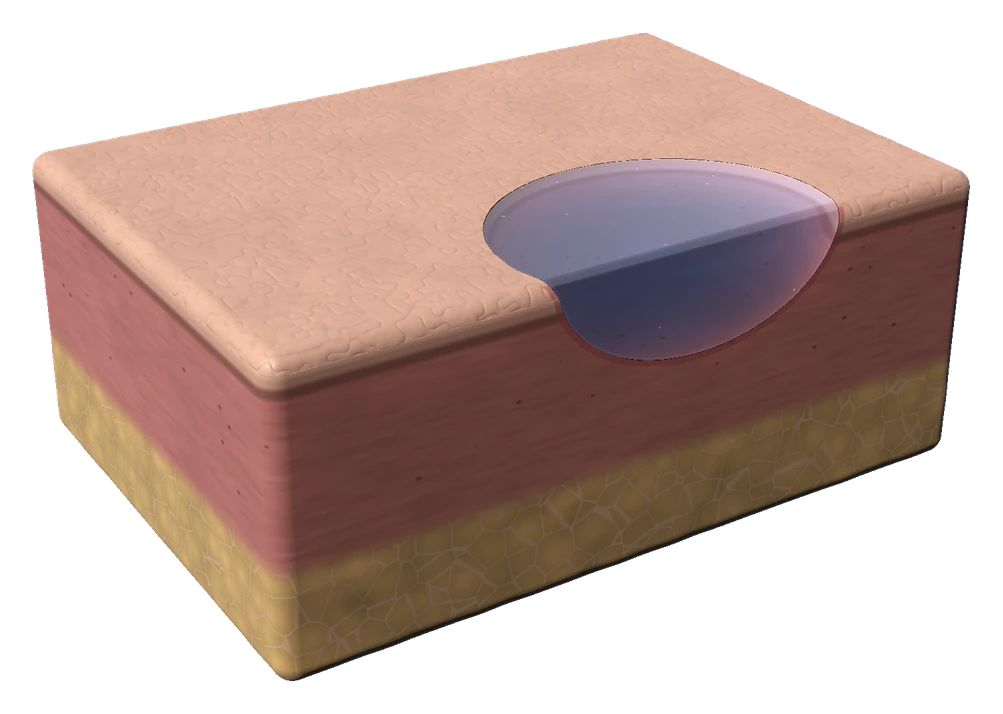
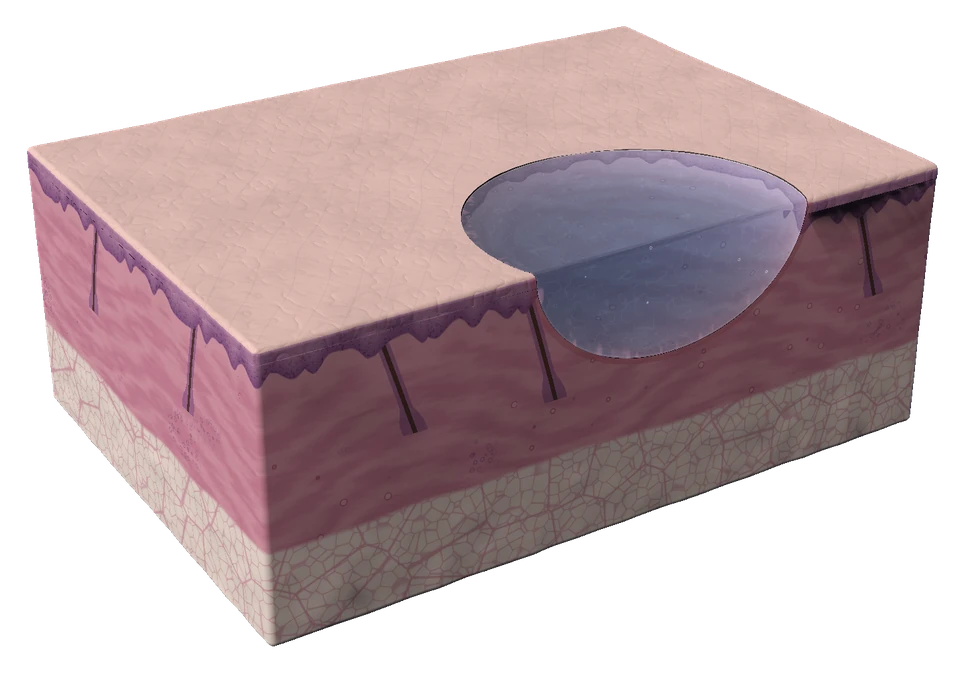
biomimir: histology-true hero render (coordinator review: no toy renders)
Claude-Session: https://claude.ai/code/session_014388NGBf241cfVKMjs2ozB

diff --git a/_kit/src/biomimir.src.html b/_kit/src/biomimir.src.html
@@ -1052,7 +1052,7 @@ var MOBILE=function(){return innerWidth<861};
 function unmask(s){if(!s)return;(s.masks||[]).forEach(function(m){m.style.overflow="visible";m.style.clipPath="none"})}
 
 
-/*<R:field>*//* ================= HERO FIELD: a crafted render of BioMimir's product in use (HOME_BRIEF update 2c): a block of human skin
+/*<R:field>*//* ================= HERO FIELD: a crafted render of BioMimir's product in use (HOME_BRIEF update 2c): a histology-true block of human skin
    in cross-section (epidermis, dermis, lobulated fat) whose deep cavity wound is filled flush with a clear, faintly blue
    gel, MatriFlex, their liquid-to-solid bioresorbable skin substitute (biomimir.ca). Ray-marched offline by render.py,
    lit warm with a periwinkle rim from the site's #5b7cc4, baked with alpha to hero.webp; here it breathes in a slow
@@ -1067,8 +1067,8 @@ var field=(function(){
   function geo(){
     var side=Math.max(Math.min(72,Math.max(16,w*.042)),(w-1320)/2),cw=w-2*side,mob=w<861;
     var U=mob?h*.42:h;
-    /* the skin block fills the render (1003x714, AR 1.405); it sits whole in the open area right of the text, below the header */
-    var AR=1003/714,iw=mob?Math.min(w*.86,(U-100)*AR):Math.min(cw*.45,(h-230)*AR),ih=iw/AR;
+    /* the skin block fills the render (964x673, AR 1.43); it sits whole in the open area right of the text, below the header */
+    var AR=964/673,iw=mob?Math.min(w*.86,(U-100)*AR):Math.min(cw*.45,(h-230)*AR),ih=iw/AR;
     var kx=mob?w*.5:side+cw*.73,ky=mob?98+(U-100)*.5:96+(h-96)*.52;
     return {mob:mob,side:side,cw:cw,U:U,ih:ih,iw:iw,kx:kx,ky:ky,bh:mob?U:h};
   }

diff --git a/biomimir/index.html b/biomimir/index.html
@@ -1618,7 +1618,7 @@ var MOBILE=function(){return innerWidth<861};
 function unmask(s){if(!s)return;(s.masks||[]).forEach(function(m){m.style.overflow="visible";m.style.clipPath="none"})}
 
 
-/*<R:field>*//* ================= HERO FIELD: a crafted render of BioMimir's product in use (HOME_BRIEF update 2c): a block of human skin
+/*<R:field>*//* ================= HERO FIELD: a crafted render of BioMimir's product in use (HOME_BRIEF update 2c): a histology-true block of human skin
    in cross-section (epidermis, dermis, lobulated fat) whose deep cavity wound is filled flush with a clear, faintly blue
    gel, MatriFlex, their liquid-to-solid bioresorbable skin substitute (biomimir.ca). Ray-marched offline by render.py,
    lit warm with a periwinkle rim from the site's #5b7cc4, baked with alpha to hero.webp; here it breathes in a slow
@@ -1633,8 +1633,8 @@ var field=(function(){
   function geo(){
     var side=Math.max(Math.min(72,Math.max(16,w*.042)),(w-1320)/2),cw=w-2*side,mob=w<861;
     var U=mob?h*.42:h;
-    /* the skin block fills the render (1003x714, AR 1.405); it sits whole in the open area right of the text, below the header */
-    var AR=1003/714,iw=mob?Math.min(w*.86,(U-100)*AR):Math.min(cw*.45,(h-230)*AR),ih=iw/AR;
+    /* the skin block fills the render (964x673, AR 1.43); it sits whole in the open area right of the text, below the header */
+    var AR=964/673,iw=mob?Math.min(w*.86,(U-100)*AR):Math.min(cw*.45,(h-230)*AR),ih=iw/AR;
     var kx=mob?w*.5:side+cw*.73,ky=mob?98+(U-100)*.5:96+(h-96)*.52;
     return {mob:mob,side:side,cw:cw,U:U,ih:ih,iw:iw,kx:kx,ky:ky,bh:mob?U:h};
   }

diff --git a/_kit/home/biomimir/field.js b/_kit/home/biomimir/field.js
@@ -1,4 +1,4 @@
-/* ================= HERO FIELD: a crafted render of BioMimir's product in use (HOME_BRIEF update 2c): a block of human skin
+/* ================= HERO FIELD: a crafted render of BioMimir's product in use (HOME_BRIEF update 2c): a histology-true block of human skin
    in cross-section (epidermis, dermis, lobulated fat) whose deep cavity wound is filled flush with a clear, faintly blue
    gel, MatriFlex, their liquid-to-solid bioresorbable skin substitute (biomimir.ca). Ray-marched offline by render.py,
    lit warm with a periwinkle rim from the site's #5b7cc4, baked with alpha to hero.webp; here it breathes in a slow
@@ -13,8 +13,8 @@ var field=(function(){
   function geo(){
     var side=Math.max(Math.min(72,Math.max(16,w*.042)),(w-1320)/2),cw=w-2*side,mob=w<861;
     var U=mob?h*.42:h;
-    /* the skin block fills the render (1003x714, AR 1.405); it sits whole in the open area right of the text, below the header */
-    var AR=1003/714,iw=mob?Math.min(w*.86,(U-100)*AR):Math.min(cw*.45,(h-230)*AR),ih=iw/AR;
+    /* the skin block fills the render (964x673, AR 1.43); it sits whole in the open area right of the text, below the header */
+    var AR=964/673,iw=mob?Math.min(w*.86,(U-100)*AR):Math.min(cw*.45,(h-230)*AR),ih=iw/AR;
     var kx=mob?w*.5:side+cw*.73,ky=mob?98+(U-100)*.5:96+(h-96)*.52;
     return {mob:mob,side:side,cw:cw,U:U,ih:ih,iw:iw,kx:kx,ky:ky,bh:mob?U:h};
   }

diff --git a/_kit/home/biomimir/render.py b/_kit/home/biomimir/render.py
@@ -20,9 +20,9 @@ def nrm(v): return v / (np.linalg.norm(v, axis=-1, keepdims=True) + 1e-12)
 def sm(a, b, x):
     t = np.clip((x - a) / (b - a), 0, 1); return t * t * (3 - 2 * t)
 
-BX, BY, BZ, BR = 1.32, 0.50, 0.92, 0.07       # skin block half sizes + rounding
+BX, BY, BZ, BR = 1.32, 0.50, 0.92, 0.022      # tissue block half sizes + a slight edge softening (a cut block, not a cake)
 TOP = BY + BR                                 # top skin surface
-EC = np.array([0.18, TOP, -BZ - BR + 0.22]); ER = np.array([0.62, 0.42, 0.56])   # the wound cavity (ellipsoid), cut open by the front face
+EC = np.array([0.18, TOP, -BZ - BR + 0.22]); ER = np.array([0.60, 0.46, 0.56])   # the wound cavity (ellipsoid), cut open by the front face
 
 YAW = np.radians(-32)
 cy_, sy_ = np.cos(YAW), np.sin(YAW)
@@ -59,9 +59,9 @@ def cell(p):
 def skin_tex(q):
     # fine skin relief: irregular furrows (ridged noise) + soft micro relief
     n = vnoise(q * np.array([24, 24, 24.0]))
-    return -0.0022 * (1 - np.abs(2 * n - 1)) ** 4 + 0.0006 * vnoise(q * 70.0)
+    return -0.0014 * (1 - np.abs(2 * n - 1)) ** 4 + 0.0004 * vnoise(q * 70.0)
 def fat_bump(q):
-    return 0.004 * vnoise(q * 9.0)
+    b1 = vnoise(q * 11.0); return 0.005 * b1 * b1
 
 def ell(q):
     k = (q - EC) / ER; k0 = np.linalg.norm(k, axis=1); k1 = np.linalg.norm(k / ER, axis=1)
@@ -72,14 +72,15 @@ def sdf(p, want=False):
     d = np.abs(q) - np.array([BX, BY, BZ])
     box = np.linalg.norm(np.maximum(d, 0), axis=1) + np.minimum(d.max(1), 0) - BR
     top = q[:, 1] > TOP - 0.05
-    box = box - np.where(top, skin_tex(q), 0)
-    fat = q[:, 1] < -0.16
-    box = box + np.where(fat, -fat_bump(q) * sm(-0.16, -0.24, q[:, 1]), 0)
+    box = box - np.where(top, skin_tex(q) + 0.010 * (vnoise(q * np.array([2.2, 2.2, 2.2])) - .5), 0)
+    box = box - 0.004 * (vnoise(q * 7.0) - .5)                              # a hand-cut face is never flat
+    fat = q[:, 1] < -0.17
+    box = box - np.where(fat, fat_bump(q) * sm(-0.17, -0.30, q[:, 1]), 0)
     cav = ell(q)
     skin = np.maximum(box, -cav)
     boxp = np.linalg.norm(np.maximum(d, 0), axis=1) + np.minimum(d.max(1), 0) - BR
     r2 = ((q[:, 0] - EC[0]) / ER[0]) ** 2 + ((q[:, 2] - EC[2]) / ER[2]) ** 2
-    dome = TOP + 0.012 + 0.026 * np.clip(1 - r2, 0, 1)
+    dome = TOP + 0.002 + 0.004 * np.clip(1 - r2, 0, 1)
     gel = np.maximum(np.maximum(cav + 0.002, (q[:, 1] - dome) * 0.9), boxp + 0.002)
     out = np.minimum(skin, gel)
     if want: return out, dict(q=q, gel=gel < skin)
@@ -111,30 +112,87 @@ def normal(P):
     return nrm(np.stack([sdf(P + [e, 0, 0]) - sdf(P - [e, 0, 0]), sdf(P + [0, e, 0]) - sdf(P - [0, e, 0]),
                          sdf(P + [0, 0, e]) - sdf(P - [0, 0, e])], 1))
 
+FOL = [  # hair follicles: (x at top, z, tilt in x per unit depth, depth), lying in the cut faces so they show in section
+    (-0.95, -BZ - 0.004, 0.32, 0.40), (-0.42, -BZ - 0.004, 0.28, 0.44), (0.95, -BZ - 0.004, 0.30, 0.42),
+    (-BX - 0.004, -0.55, 0.0, 0.42), (-BX - 0.004, 0.25, 0.0, 0.40)]
 def tissue_albedo(q, n_local):
-    y = q[:, 1]
-    epi = np.array([0.86, 0.68, 0.60]); bas = np.array([0.55, 0.36, 0.33])
-    der = np.array([0.80, 0.50, 0.49]); fat = np.array([0.94, 0.80, 0.50]); bed = np.array([0.66, 0.30, 0.31])
-    # dermis with fine collagen streaks
-    streak = fbm(q * np.array([9.0, 60.0, 9.0]), 3)
-    a = der[None, :] * (0.86 + 0.22 * streak)[:, None]
-    g1, g2 = cell(q * np.array([7.0, 11.0, 7.0]) + 3.1)
-    ves = (1 - sm(0.06, 0.10, g1)) * sm(-0.05, 0.05, y) * (1 - sm(0.38, 0.44, y))
-    a = a * (1 - ves * 0.55)[:, None] + np.array([0.50, 0.12, 0.14]) * (ves * 0.55)[:, None]
-    a = a * (1 - sm(0.43, 0.455, y))[:, None] + bas * (sm(0.43, 0.455, y) * (1 - sm(0.465, 0.49, y)))[:, None] \
-        + epi * sm(0.465, 0.49, y)[:, None]
-    f = sm(-0.10, -0.20, y)
-    f1, f2 = cell(q * 9.0)
-    sep = 1 - (1 - sm(0.01, 0.07, f2 - f1)) * 0.6                   # thin fibrous septa between lobules
-    cv = hsh(np.floor(q * 9.0))
-    fa = fat[None, :] * (0.80 + 0.22 * np.clip(1 - f1, 0, 1) ** 1.5 + 0.06 * (vnoise(q * 9.0) - .5))[:, None]
-    fa = fa * sep[:, None] + np.array([0.95, 0.80, 0.74]) * (1 - sep)[:, None]
+    """H&E-like histology colours on the cut faces: pale lamellated stratum corneum, a stratified purple epidermis with
+    rete ridges dipping into the dermis, eosin-pink fibrous dermis (finer papillary, coarser reticular bundles) with small
+    vessels, hair follicles and coiled sweat glands, then lobulated pale fat with thin pink septa."""
+    x, y, z = q[:, 0], q[:, 1], q[:, 2]
+    n = len(q)
+    # --- the dermal-epidermal junction with rete ridges (pegs pointing down)
+    r1 = (0.5 + 0.5 * np.sin(34 * x + 2.2 * np.sin(11 * z) + 1.3)) ** 3
+    r2 = (0.5 + 0.5 * np.sin(32 * z + 2.0 * np.sin(13 * x))) ** 3
+    rr = np.maximum(r1, r2)
+    dej = TOP - 0.070 - 0.050 * rr - 0.008 * vnoise(q * 40.0)
+    scb = TOP - 0.010 - 0.002 * vnoise(q * 50.0)
+    # dermis
+    pap = sm(dej - 0.09, dej - 0.02, y)                                     # papillary zone just under the junction
+    bund = fbm(q * np.array([6.0, 26.0, 6.0]), 3)
+    wav = 0.5 + 0.5 * np.sin(48 * y + 9 * bund + 5 * np.sin(5 * x + 4 * z))
+    fib = 0.55 * wav + 0.45 * fbm(q * np.array([28.0, 90.0, 28.0]), 2)
+    dermL = np.array([0.90, 0.66, 0.74]); dermD = np.array([0.76, 0.42, 0.56])
+    a = dermD[None, :] + (dermL - dermD)[None, :] * (0.25 + 0.75 * fib * (1 - pap) + 0.55 * pap)[:, None]
+    a = np.clip(a, 0, 1)
+    # vessels: small rings with a dark lumen edge, scattered in the dermis
+    v1, _ = cell(q * 13.0 + 7.7)
+    vm = (hsh(np.floor(q * 13.0 + 7.7)) > 0.72)
+    vr = vm * np.clip(1 - np.abs(v1 - 0.16) / 0.035, 0, 1)
+    vl = vm * (v1 < 0.13)
+    a = a * (1 - 0.6 * vr)[:, None] + np.array([0.62, 0.20, 0.34]) * (0.6 * vr)[:, None]
+    a = a * (1 - 0.35 * vl)[:, None] + np.array([0.96, 0.86, 0.88]) * (0.35 * vl)[:, None]
+    # sweat glands: coiled clusters of tiny purple rings low in the dermis
+    gm = sm(0.60, 0.74, vnoise(q * 4.0 + 2.3)) * sm(-0.16, -0.08, y) * (1 - sm(0.08, 0.16, y))
+    g1, _ = cell(q * 34.0)
+    gr = gm * np.clip(1 - np.abs(g1 - 0.30) / 0.09, 0, 1)
+    a = a * (1 - 0.7 * gr)[:, None] + np.array([0.50, 0.30, 0.56]) * (0.7 * gr)[:, None]
+    # hair follicles in section: purple root sheath, a dark shaft, a bulb at the base
+    for (fx, fz, tl, dp) in FOL:
+        t = np.clip((TOP - y) / dp, 0, 1)
+        if abs(fz) > BZ:   # follicle in the front face: runs in x
+            cx = fx + tl * (TOP - y); dd = np.abs(x - cx); near = np.abs(z - fz) < 0.03
+        else:              # follicle in the left face: runs in z
+            cz = fz + 0.30 * (TOP - y); dd = np.abs(z - cz); near = np.abs(x - fx) < 0.03
+        w = 0.022 + 0.022 * sm(0.8, 1.0, t)
+        inside = near & (y < TOP) & (y > TOP - dp - 0.03) & (dd < w)
+        sheath = inside & (dd > 0.008)
+        a[sheath] = a[sheath] * 0.35 + np.array([0.52, 0.32, 0.58]) * 0.65
+        shaft = inside & (dd <= 0.008)
+        a[shaft] = np.array([0.30, 0.20, 0.18])
+    # epidermis: stratified, basal layer darker, nuclear stipple
+    ep = sm(dej - 0.004, dej + 0.004, y)
+    depth_in = np.clip((y - dej) / 0.07, 0, 1)
+    epc = np.array([0.50, 0.30, 0.54]) * (1 - depth_in)[:, None] + np.array([0.70, 0.50, 0.68]) * depth_in[:, None]
+    stip = (vnoise(q * 160.0) > 0.72) * (1 - depth_in * 0.6)
+    epc = epc * (1 - 0.25 * stip)[:, None]
+    a = a * (1 - ep)[:, None] + epc * ep[:, None]
+    # stratum corneum: thin, pale, lamellated
+    sc = sm(scb - 0.003, scb + 0.002, y)
+    lam = 0.5 + 0.5 * np.sin(y * 900.0)
+    scc = np.array([0.93, 0.80, 0.86]) * (0.92 + 0.08 * lam)[:, None]
+    a = a * (1 - sc)[:, None] + scc * sc[:, None]
+    # hypodermis: lobulated pale fat, thin pink septa, thicker septa between lobule groups
+    db = -0.17 + 0.03 * (vnoise(q * 5.0) - .5)
+    f = sm(db + 0.012, db - 0.012, y)
+    f1, f2 = cell(q * 19.0)
+    L1, L2 = cell(q * 4.2 + 4.4)
+    thin = 1 - sm(0.0, 0.11, f2 - f1)
+    thick = 1 - sm(0.0, 0.05, L2 - L1)
+    fa = np.array([0.97, 0.94, 0.92])[None, :] * (0.95 + 0.05 * (1 - f1))[:, None]
+    sep = np.clip(thin * 0.8 + thick, 0, 1)
+    fa = fa * (1 - sep * 0.75)[:, None] + np.array([0.84, 0.56, 0.68]) * (sep * 0.75)[:, None]
     a = a * (1 - f)[:, None] + fa * f[:, None]
-    tone = fbm(q * 5.0, 2)
-    a = a * (0.94 + 0.12 * tone)[:, None]
-    # the wound bed (cavity wall): raw, a little deeper red
-    inbed = (ell(q) > -0.02) & (ell(q) < 0.02) & (y < TOP - 0.01)
-    a[inbed] = a[inbed] * 0.45 + bed * 0.55
+    # the skin surface seen from above: matte, pale skin with fine mottling (only on upward-facing points)
+    up = y > TOP - 0.013
+    tone = fbm(q * 6.0, 2)
+    fur = np.maximum(1 - np.abs(np.sin(26 * x + 17 * z + 3 * vnoise(q * 3.0))) / 0.06, 0) + \
+          np.maximum(1 - np.abs(np.sin(24 * x - 19 * z + 3 * vnoise(q * 3.0 + 9))) / 0.06, 0)
+    a[up] = np.array([0.86, 0.73, 0.72]) * (0.92 + 0.12 * tone[up] - 0.07 * np.clip(fur[up], 0, 1))[:, None]
+    # the wound bed (cavity wall): granulating, slightly deeper red
+    e = ell(q)
+    inbed = (e > -0.025) & (e < 0.02) & (y < TOP - 0.01)
+    a[inbed] = a[inbed] * 0.55 + np.array([0.74, 0.36, 0.44]) * 0.45
     return a
 
 def shade_tissue(P, Nn, V, q):
@@ -156,11 +214,11 @@ def shade_tissue(P, Nn, V, q):
     sss = np.clip((ndl + 0.6) / 1.6, 0, 1) * (1 - np.clip(ndl, 0, 1))  # red bleed at the terminator
     rim = np.clip(Nn @ RIMD, 0, 1) ** 2
     fres = (1 - np.clip((Nn * V).sum(1), 0, 1)) ** 4
-    Hh = nrm(LK + V); spec = np.clip((Nn * Hh).sum(1), 0, 1) ** 38 * 0.16
+    Hh = nrm(LK + V); spec = np.clip((Nn * Hh).sum(1), 0, 1) ** 24 * 0.05
     col = alb * (np.array([1.0, 0.95, 0.90]) * (wrap * sh)[:, None] * 1.12 + 0.10 * ao[:, None])
-    col += alb * np.array([0.55, 0.12, 0.08]) * (sss * 0.22 * sh)[:, None]
+    col += alb * np.array([0.45, 0.14, 0.18]) * (sss * 0.16 * sh)[:, None]
     col += alb * PERI * 0.22 * (ao * np.clip(Nn @ nrm(np.array([0.7, -0.1, 0.5])), 0, 1))[:, None]
-    col += (rim * 0.30 + fres * 0.18)[:, None] * PERI[None, :] * ao[:, None]
+    col += (rim * 0.20 + fres * 0.10)[:, None] * PERI[None, :] * ao[:, None]
     col += (spec * sh)[:, None] * np.array([1.0, 0.97, 0.95])
     col *= (0.42 + 0.58 * ao)[:, None]
     return col
@@ -220,22 +278,31 @@ def render_rows(rows):
         depth = TOP - Qb[:, 1]
         bedl = np.clip((Nb @ LK + 0.5) / 1.5, 0, 1) * (1 - 0.55 * sm(0.0, 0.38, depth))
         under = alb * (0.30 + 1.05 * bedl)[:, None]
-        absorb = np.exp(-tt[:, None] * np.array([1.6, 0.95, 0.55]))   # a faint blue cast with thickness
-        under = under * absorb * np.array([0.92, 1.0, 1.08]) + np.array([0.10, 0.18, 0.32]) * (1 - absorb.mean(1, keepdims=True)) * 0.6
+        absorb = np.exp(-tt[:, None] * np.array([0.75, 0.42, 0.22]))   # a faint blue cast with thickness
+        lum = under.mean(1, keepdims=True); under = (under * 0.6 + lum * 0.4) * absorb * np.array([0.9, 1.0, 1.06]) + np.array([0.04, 0.08, 0.13]) * (1 - absorb.mean(1, keepdims=True)) * 0.6
         F0 = 0.025; F = F0 + (1 - F0) * (1 - cosi) ** 5
         Rf = Dg - 2 * (Dg * Ng).sum(1)[:, None] * Ng
         refl = env(Rf)
         Hh = nrm(LK + Vg); spec = np.clip((Ng * Hh).sum(1), 0, 1) ** 420 * 3.2
         sheen = np.clip((Ng * Hh).sum(1), 0, 1) ** 70 * 0.35
-        col[gi] = under * (1 - F)[:, None] + refl * (F * 1.6 + 0.05)[:, None] + (spec + sheen)[:, None]
+        col[gi] = under * (1 - F)[:, None] + refl * (F * 0.7 + 0.02)[:, None] + (spec * 0.7 + sheen * 0.5)[:, None]
         # a few micro-bubbles caught in the set gel
         b1, _ = cell(Pl * 16.0 + 5.7)
         cid = hsh(np.floor(Pl * 16.0 + 5.7))
         bub = (cid > 0.82) * np.clip(1 - np.abs(b1 - 0.07) / 0.03, 0, 1) * 0.35
         col[gi] += bub[:, None] * np.array([0.85, 0.92, 1.0])
         # a fine lighter meniscus where the gel meets the skin
-        edge = np.clip(1 - np.abs(ell(Pl)) / 0.012, 0, 1)
-        col[gi] += (edge * 0.06)[:, None] * np.array([0.8, 0.88, 1.0])
+        ee = ell(Pl)
+        edge = np.clip(1 - np.abs(ee) / 0.010, 0, 1)
+        col[gi] += (edge * 0.10)[:, None] * np.array([0.85, 0.9, 1.0])
+        # the set polymer network: faint pale strands through the gel (seen along the refracted ray's mid-point)
+        mid = Pl + Rl * (tt * 0.5)[:, None]
+        net = sm(0.46, 0.5, vnoise(mid * 34.0)) * (1 - sm(0.5, 0.54, vnoise(mid * 34.0)))
+        col[gi] += (net * 0.035)[:, None] * np.array([0.9, 0.95, 1.0])
+        # integration: fine tissue strands reaching a little way into the gel from the wall
+        band = sm(-0.05, -0.004, ee)
+        strand = sm(0.55, 0.8, vnoise(Pl * np.array([60.0, 18.0, 60.0])))
+        col[gi] = col[gi] * (1 - 0.35 * band * strand)[:, None] + np.array([0.80, 0.55, 0.64]) * (0.35 * band * strand)[:, None]
     col = col / (1 + col * .18) * 1.1
     col = np.clip(col, 0, 1) ** (1 / 1.05)
     col = np.clip(col + (np.random.default_rng(r0).random((len(hi), 1)) - .5) * .01, 0, 1)

diff --git a/_kit/dossiers/biomimir.md b/_kit/dossiers/biomimir.md
@@ -33,7 +33,7 @@ cookie bar). The English home (/home) has the headline set over the CEO's photo,
 navy where blocks failed to render or are blank; partner logos in mixed treatments.
 
 ## Visuals
-- Hero: crafted render (render.py, numpy sphere tracing): a skin block in cross-section (epidermis, dermis, lobulated fat)
+- Hero: crafted render (render.py, numpy sphere tracing), histology-true after coordinator review: a cut skin block with matte H&E-like colours (lamellated stratum corneum, stratified epidermis with rete ridges, fibrous dermis with vessels, hair follicles and sweat glands, lobulated fat with septa) and a deep cavity wound filled flush by clear translucent gel (MatriFlex in use), refracting the wound bed, with tissue strands at the edges.
   with a deep cavity wound filled flush by clear, faintly blue gel (MatriFlex in use). Alpha PNG -> hero.webp. No stock photo.
 - Story: engraved skin cross-section; inflamed wound -> gel fills and sets -> tissue regrows as gel resorbs, epidermis closes.
 - Palette: live site navy rgb(21,34,69), periwinkle buttons, white rune wordmark (their PNG used as the header logo).
